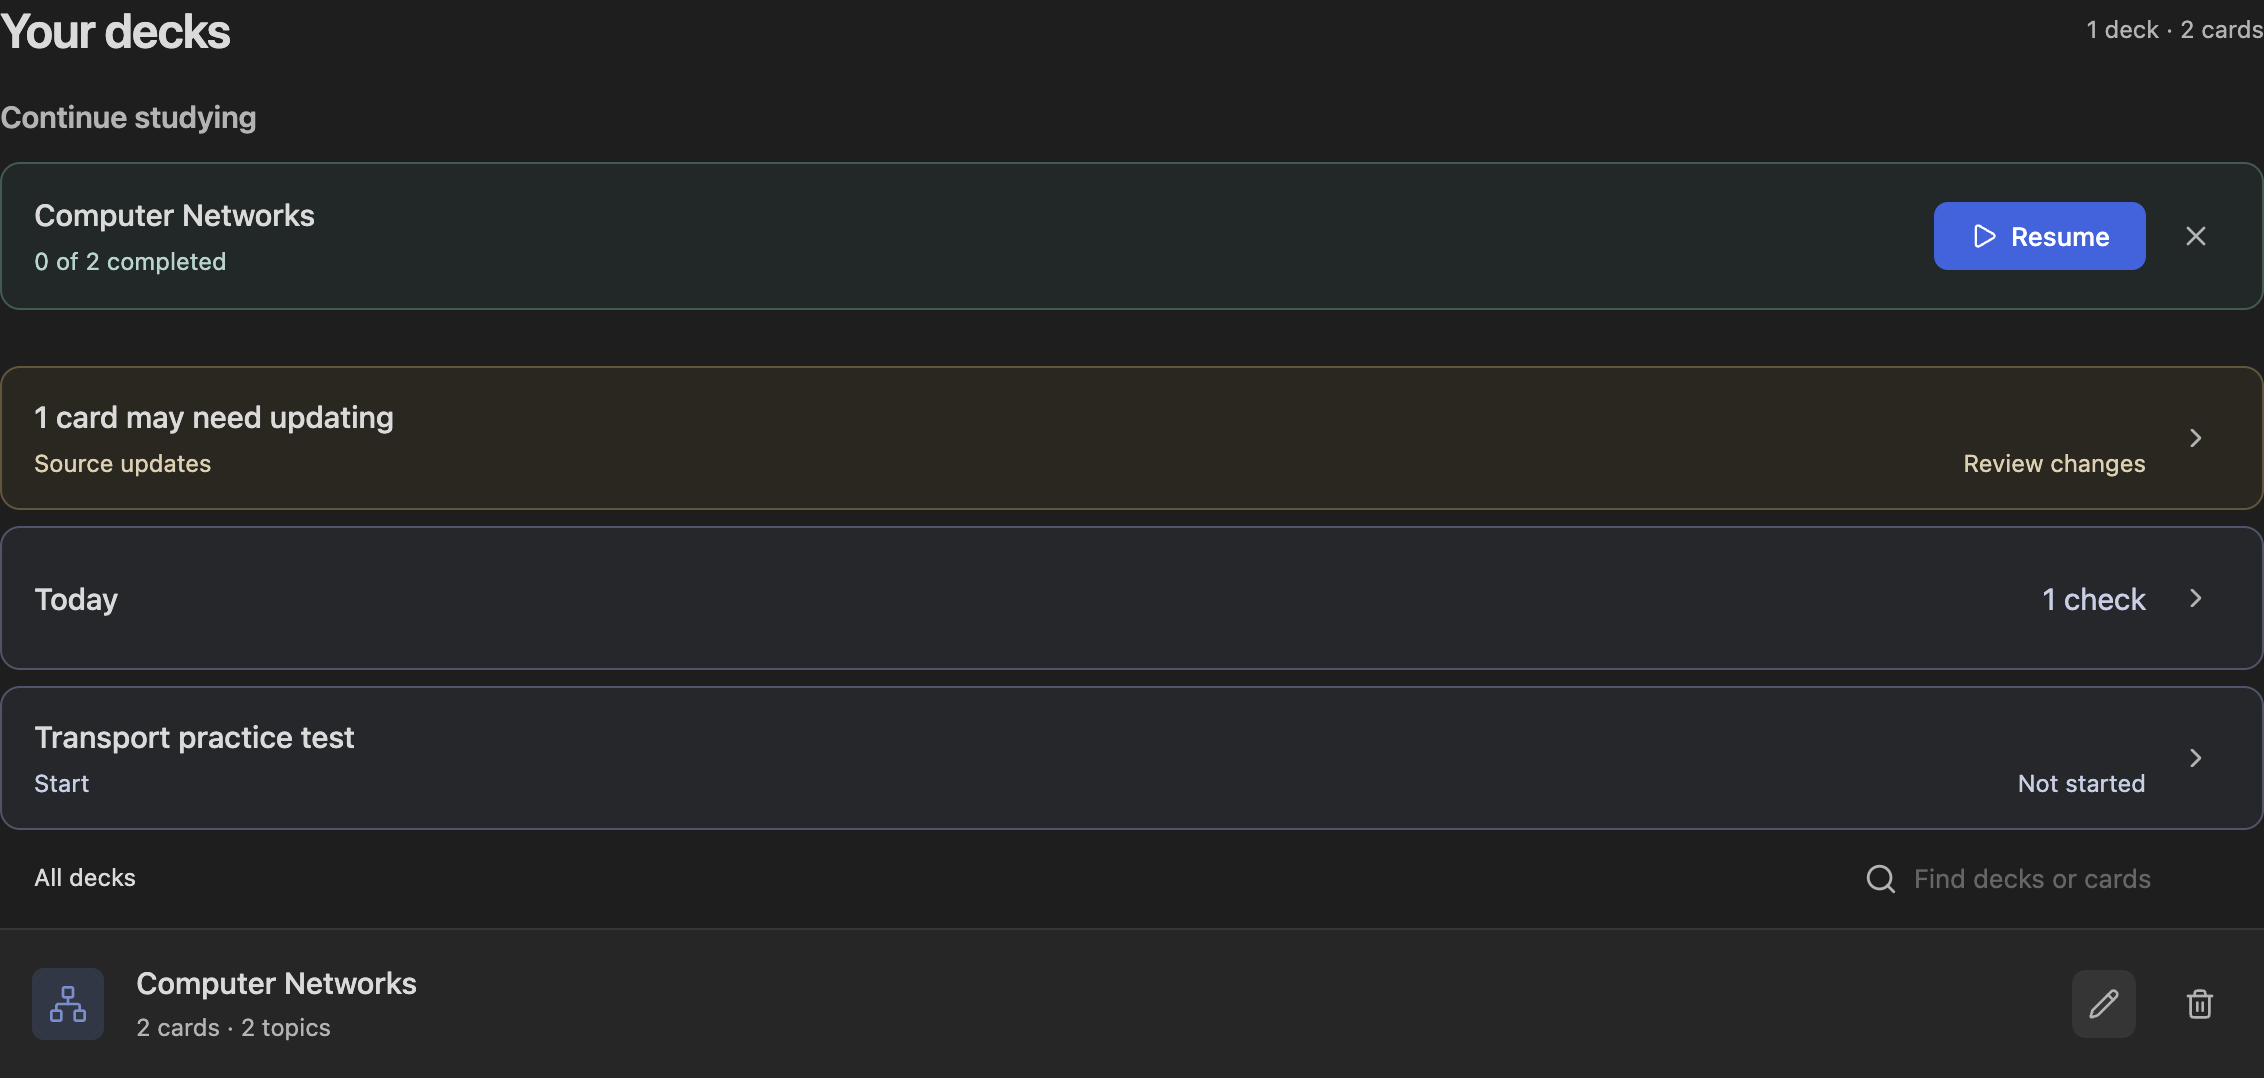
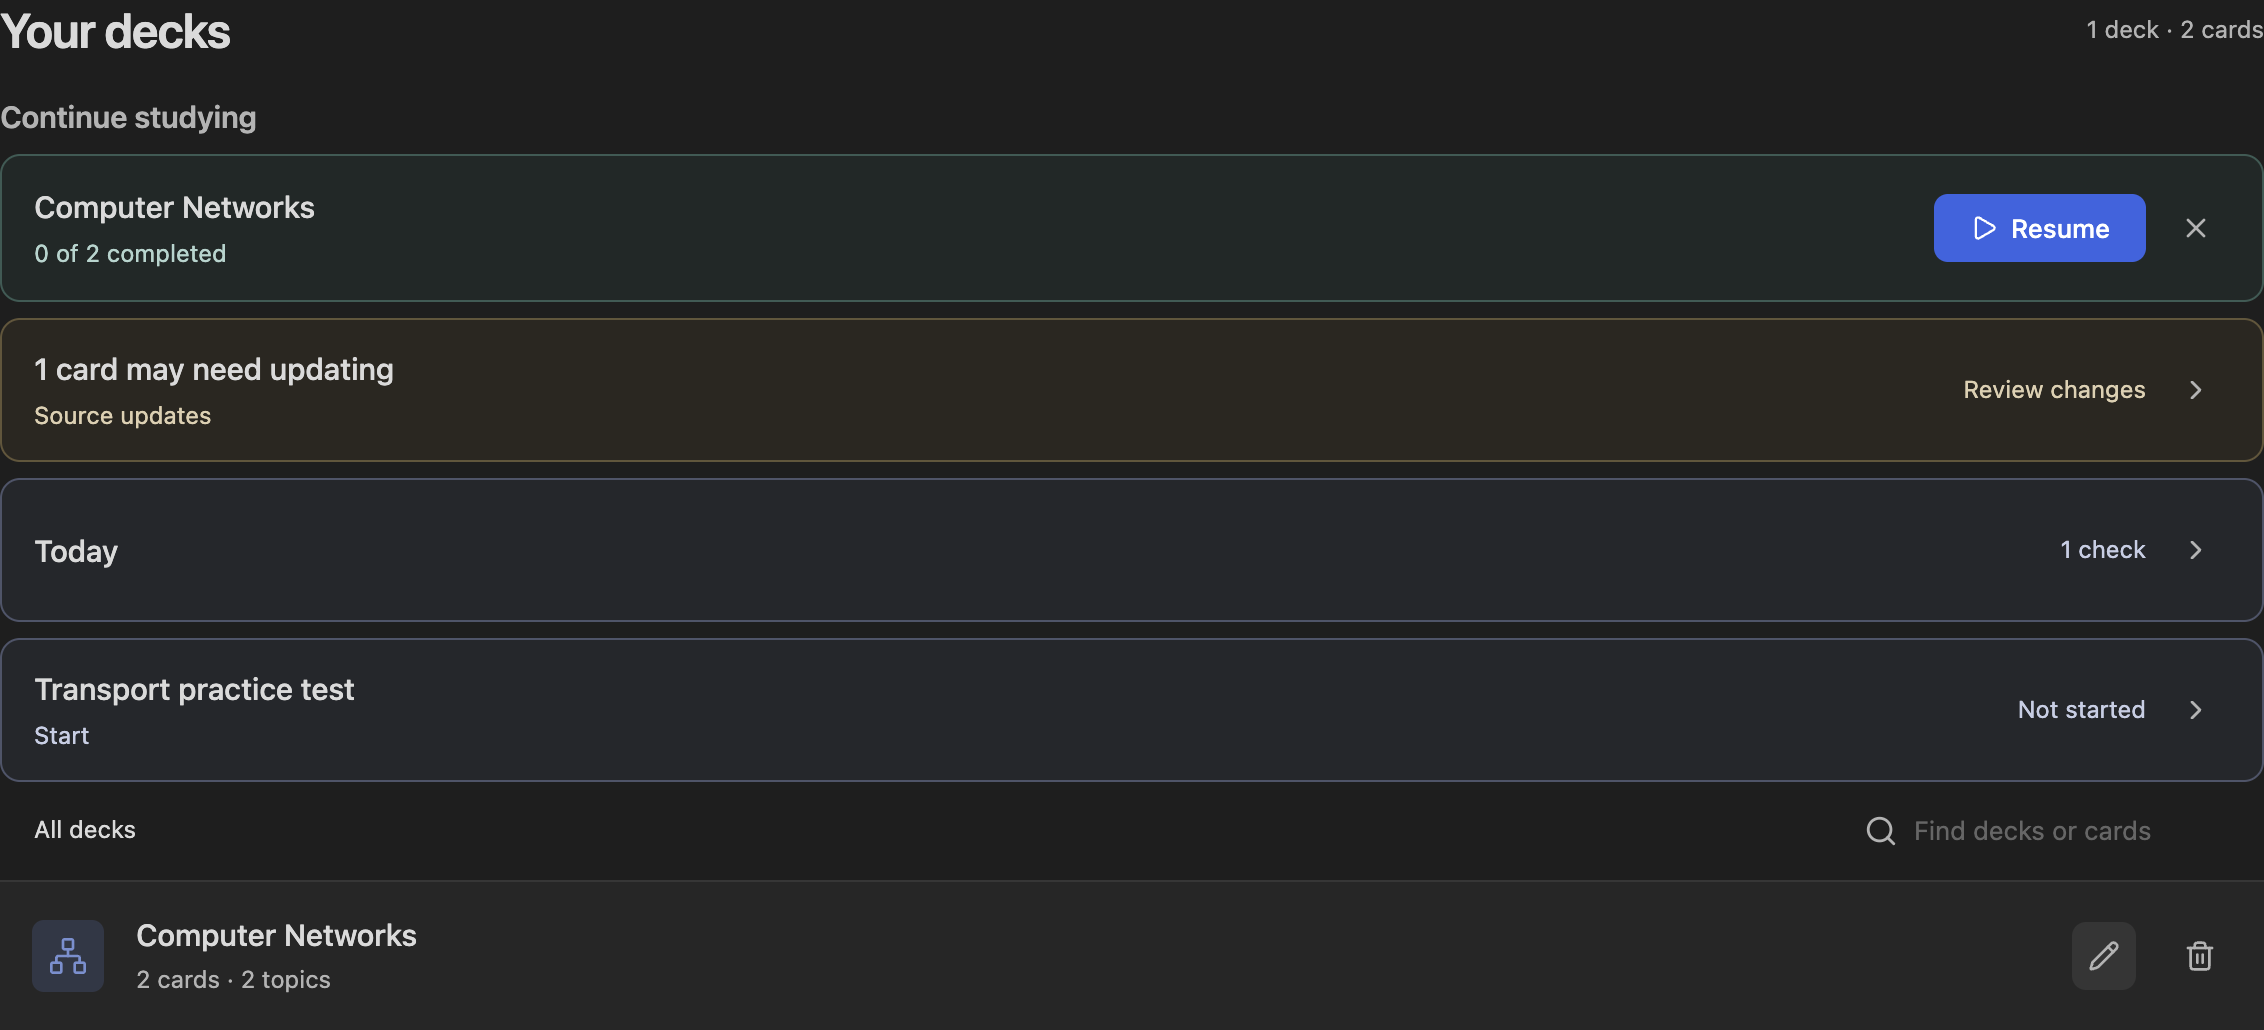
Refresh corrected row gap and action alignment comparisons

diff --git a/docs/images/ui-main-latest/audit-report.md b/docs/images/ui-main-latest/audit-report.md
@@ -1,22 +1,19 @@
-# Upstream PR #17 — card width, shared rows and review fixes
+# Upstream PR #17 — row spacing and trailing metadata correction
 
-Source: `6ad9e47724c993eba9f0178f8627da0c7ab020e5`. Baseline: upstream main `70056821914f0dae910b52a20f1fa3329b04d0ac`.
+Source: `af6f4726547314e523caf6f174d18387645a0439`. Baseline: upstream main `70056821914f0dae910b52a20f1fa3329b04d0ac`.
 
-The page stays at the shared 1440px maximum; the study card has its own centered 860px cap. Compact workspace tabs use space-between. Shared row tokens define 12×16px insets, 8px action gaps, 10px radii and body/metadata type roles. Continuation rows place titles first, followed by supporting labels/context. Short-title course context retains its measured fit behavior. Compound navigation/delete rows use one surface and aligned actions. Saved-session controls stay beside the title in compact panes, with a named Play action and Discard.
+Mobile tabs now use space-around. Row stacks own 8px spacing; summary/resume rows and saved-session sections have no extra margins. This removes the saved-session 28px exception and the specificity conflict that let course rows combine margin with grid gap. Empty row stacks do not create spacing.
 
-Category accents reuse the theme palette: purple lessons, blue tests/checks/Today, teal saved study sessions, and amber updates. Backgrounds, borders, metadata and hover states derive from the row accent. Existing mastery pills retain their own status colors. Grouped Today rows keep course subheadings, inline pills, single-line title ellipsis and trailing Teach/Chevron.
+Source, generated-card and test status labels use the centered trailing rail. Today counts share their explicit 12px normal metadata font and 1.5 line height. Trailing labels remain on one line, with containment for long text. Titles retain their existing measured/truncated behavior.
 
-Both upstream review comments are fixed and resolved:
+Learn rows place the independent discard action before the final decorative chevron. Navigation extends its hit area across the row using the established deck-row pattern; discard sits above that hit area. Title clicks and chevron clicks navigate, while discard opens its own confirmation without navigating.
 
-- Emptying an expanded course now cleans up fullscreen inertness/focus containment and resets expansion. Refilled courses stay collapsed. Prior inert attributes are restored.
-- Opening an objective through search synchronizes its navigation cursor. The A→B search→C navigation regression is covered.
+Full `npm run check` passed: 786 tests in 96 suites, formatting, TypeScript, ESLint, Stylelint, build and release checks. Final CSS formatting/lint/build passed after the mobile trailing-label adjustment. The layout detector returned no findings. Independent source review found no actionable regression.
 
-Two regressions were added to the existing learn UI suite; all 24 tests in that suite pass. Full `npm run check` passed: 786 tests in 96 suites, formatting, TypeScript, ESLint, Stylelint, build and release checks. The layout detector returned no findings. Independent source review found no remaining row/card regression.
+196 page cases passed across 14 screens, seven pane/device configurations and light/dark themes, without unintended overflow. An additional 36 focused cases passed: exact 8px visual gaps across saved/source/Today/test and Learn rows; zero row margins; identical metadata font family/size/weight/line height; centered single-line trailing labels; space-around end/inter-item spacing; swapped delete/chevron geometry and hit targets; actual cancel/delete-isolation and chevron-navigation flows; and multiple-session spacing through the normal notifying session API. An initial fixture-loader check did not notify the UI; it was corrected to use startSession, with no product change required.
 
-196 page cases passed across 14 screens, seven pane/device configurations and light/dark themes. An additional 42 focused rendered cases verified row title/metadata order and sizes, metadata contrast ≥4.5:1, shared radii, navigation/delete alignment, saved-session action alignment, distinct category surfaces, equally distributed compact tabs, and the centered 860px card cap. Device coverage includes 320/390px touch, 768px touch, 1280/1440px laptop, 1920px desktop and a 390px desktop split pane. No unintended latest-page horizontal overflow or runtime errors occurred.
+43 published browser pairs were freshly captured from upstream main/latest. Existing library and Learn examples cover these corrections; the screenshot count stays at 44 pairs/88 images including the unchanged native Mermaid pair. Two equal columns, no more than three examples per group, no intermediate revision as before. Phone coverage uses browser touch/pane simulation, not physical iPhone/Safari. Keyboard accessibility auditing remains outside scope.
 
-43 browser main-to-latest pairs were freshly captured. Existing library examples consolidate saved-session, source-update, Today and test-resume variants along with search focus and local action hover, without increasing the screenshot count. Learn and Today examples show lesson/check rows and mobile tab distribution; the study example shows the card cap. The unchanged native Mermaid pair is retained: renderer unchanged, cap exceeds its 324px target. Total remains 44 pairs/88 images, equal before/after columns, at most three examples per group. No intermediate revision serves as before.
+The final build is installed only in isolated Obsidian. DevBook, global configuration and the installed app are outside task writes, and protected hashes are checked against this turn's baseline. The separate test app remains open.
 
-The final build is installed only in the separate Obsidian test vault. DevBook, global Obsidian configuration and the installed app are outside task writes; protected hashes are checked against this turn’s baseline. The separate test app is left open. Mobile coverage is simulated browser touch/panes, not physical iPhone/Safari. Keyboard accessibility auditing remains excluded; the specifically requested navigation review regression is fixed and tested.
-
-The PR remains open and unmerged. GitHub upstream code review completed at 2026-11-10T15:30:47Z on this exact source head with no findings and no unresolved findings. Both upstream threads are resolved. review-state.json records the result and thread IDs.
+Both earlier upstream review threads remain resolved. Review status is recorded with its exact commit in review-state.json. The PR remains open and unmerged.
